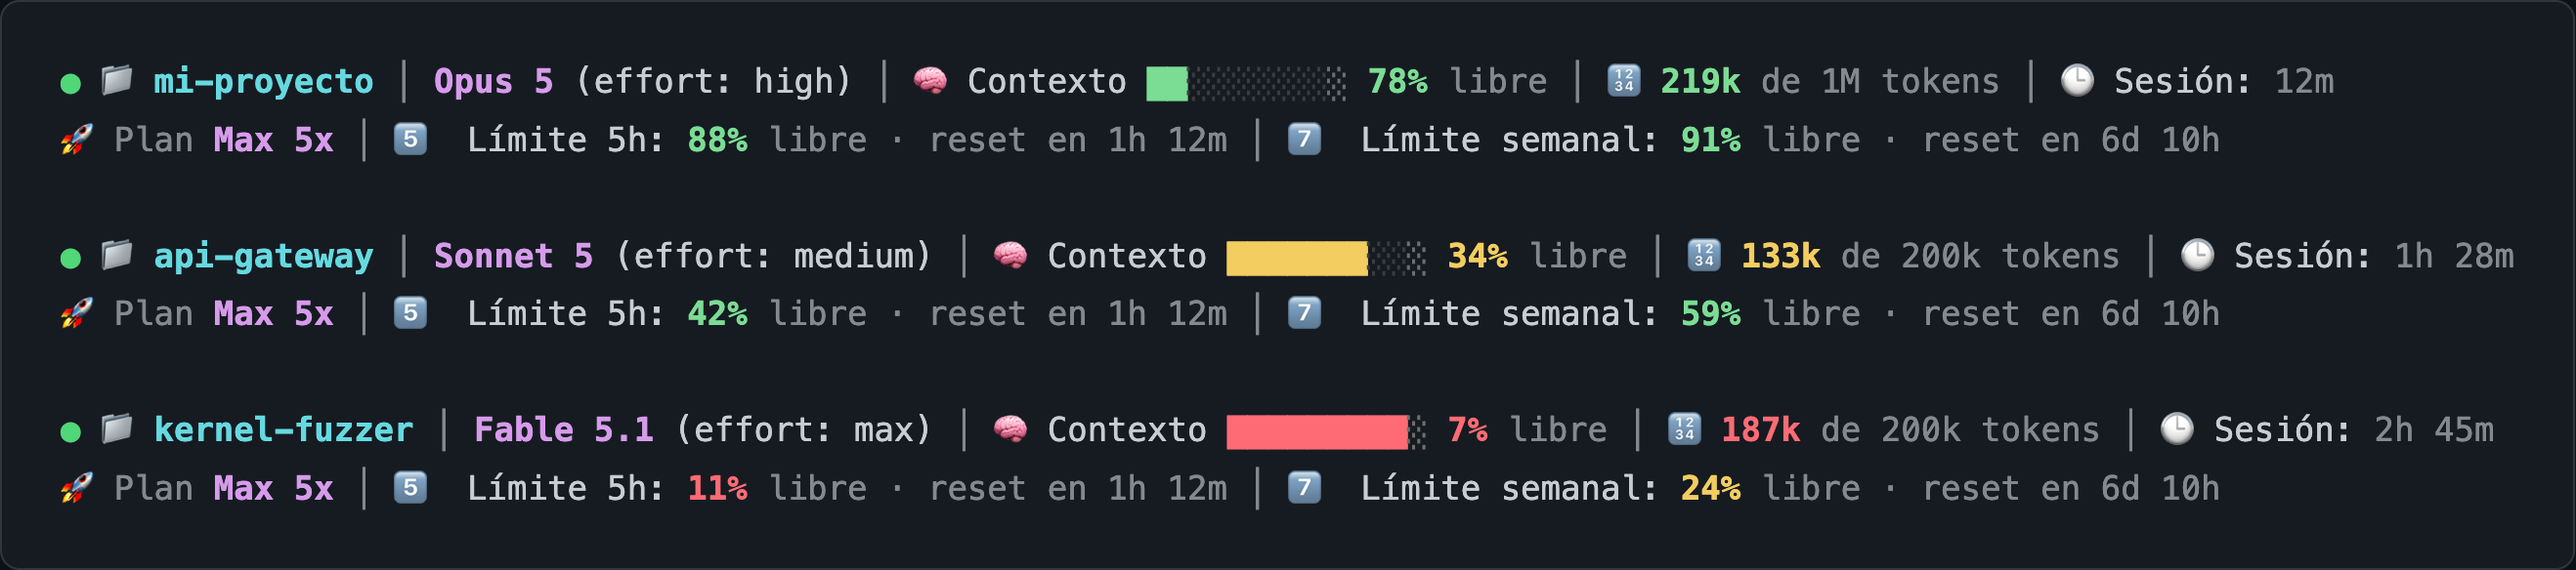
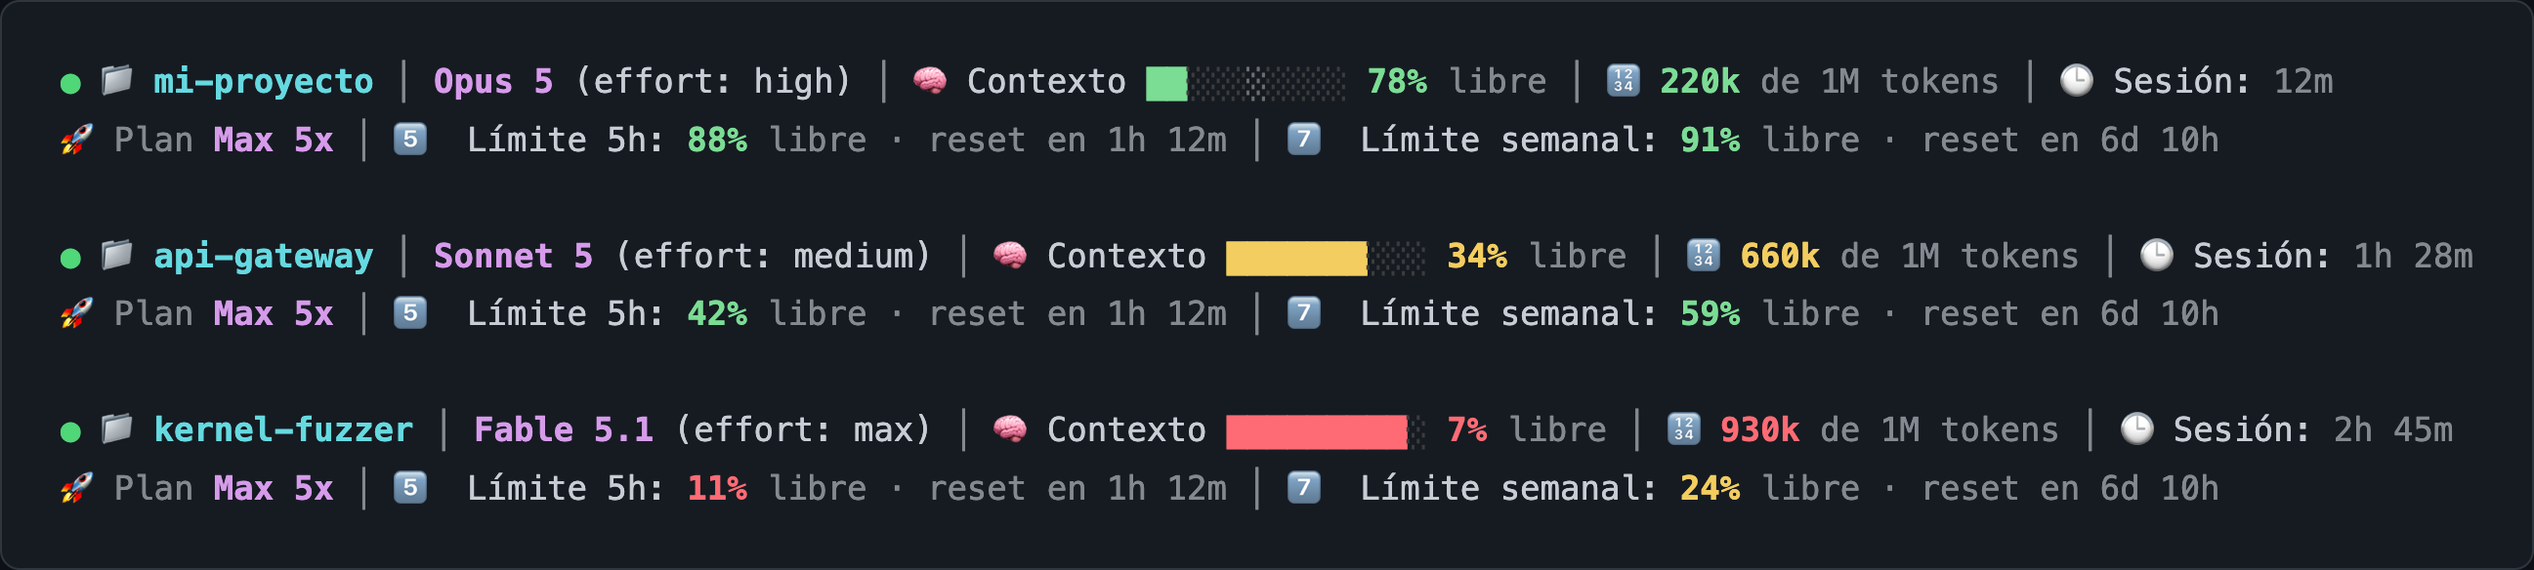
Use a 1M context window in the README screenshot and examples

diff --git a/README.md b/README.md
@@ -36,7 +36,7 @@ Todos los porcentajes son **libre** (lo que queda), nunca lo consumido.
 Con el contexto casi lleno y los límites bajos:
 
 ```
-● 📁 mi-proyecto │ Fable 5.1 (effort: max) │ 🧠 Contexto █████████░ 8% libre │ 🔢 185k de 200k tokens │ 🕒 Sesión: 2h 5m
+● 📁 mi-proyecto │ Fable 5.1 (effort: max) │ 🧠 Contexto █████████░ 8% libre │ 🔢 920k de 1M tokens │ 🕒 Sesión: 2h 5m
 🚀 Plan Max 5x │ 5⃣  Límite 5h: 12% libre · reset en 1h 15m │ 7⃣  Límite semanal: 37% libre · reset en 3d 11h
 ```
 
